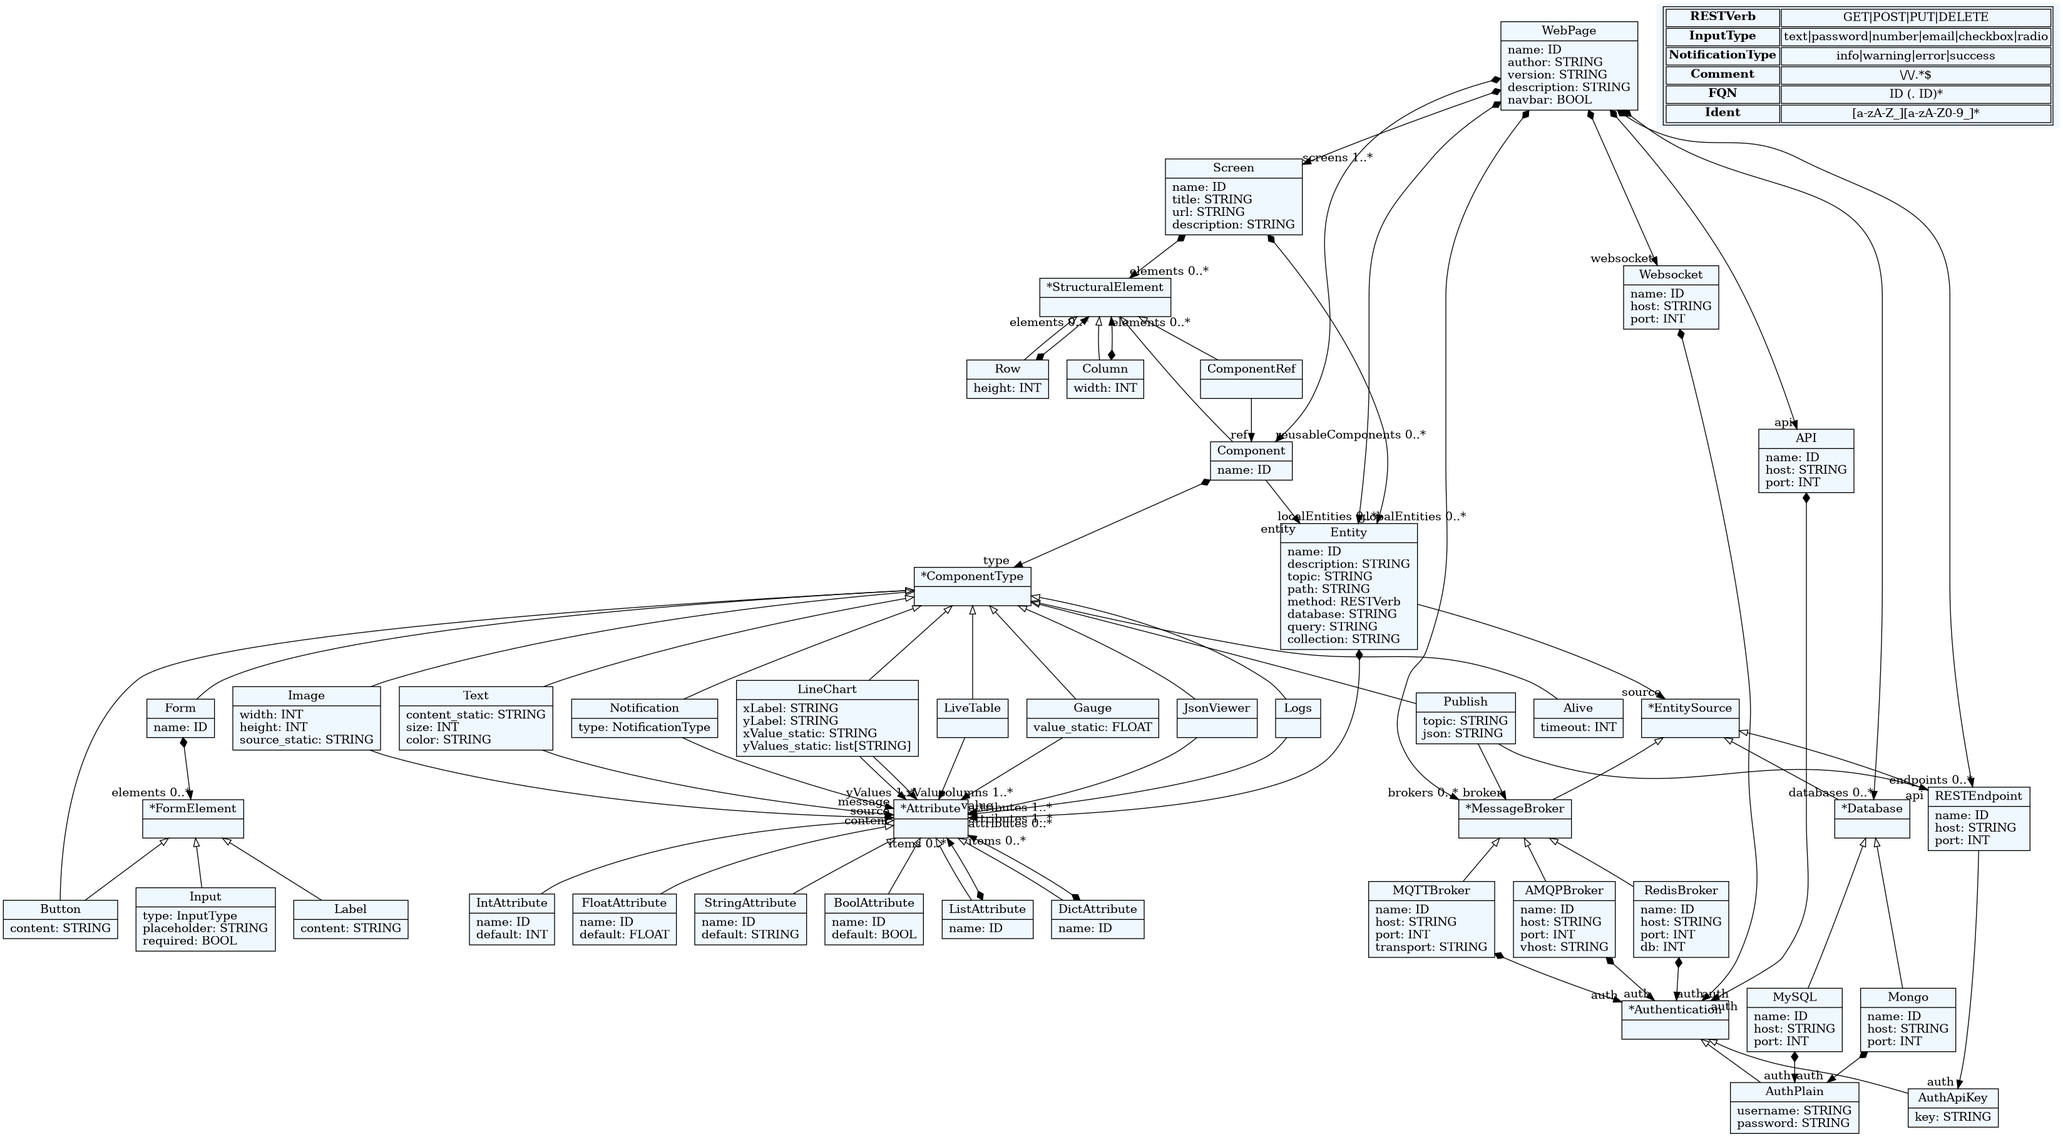
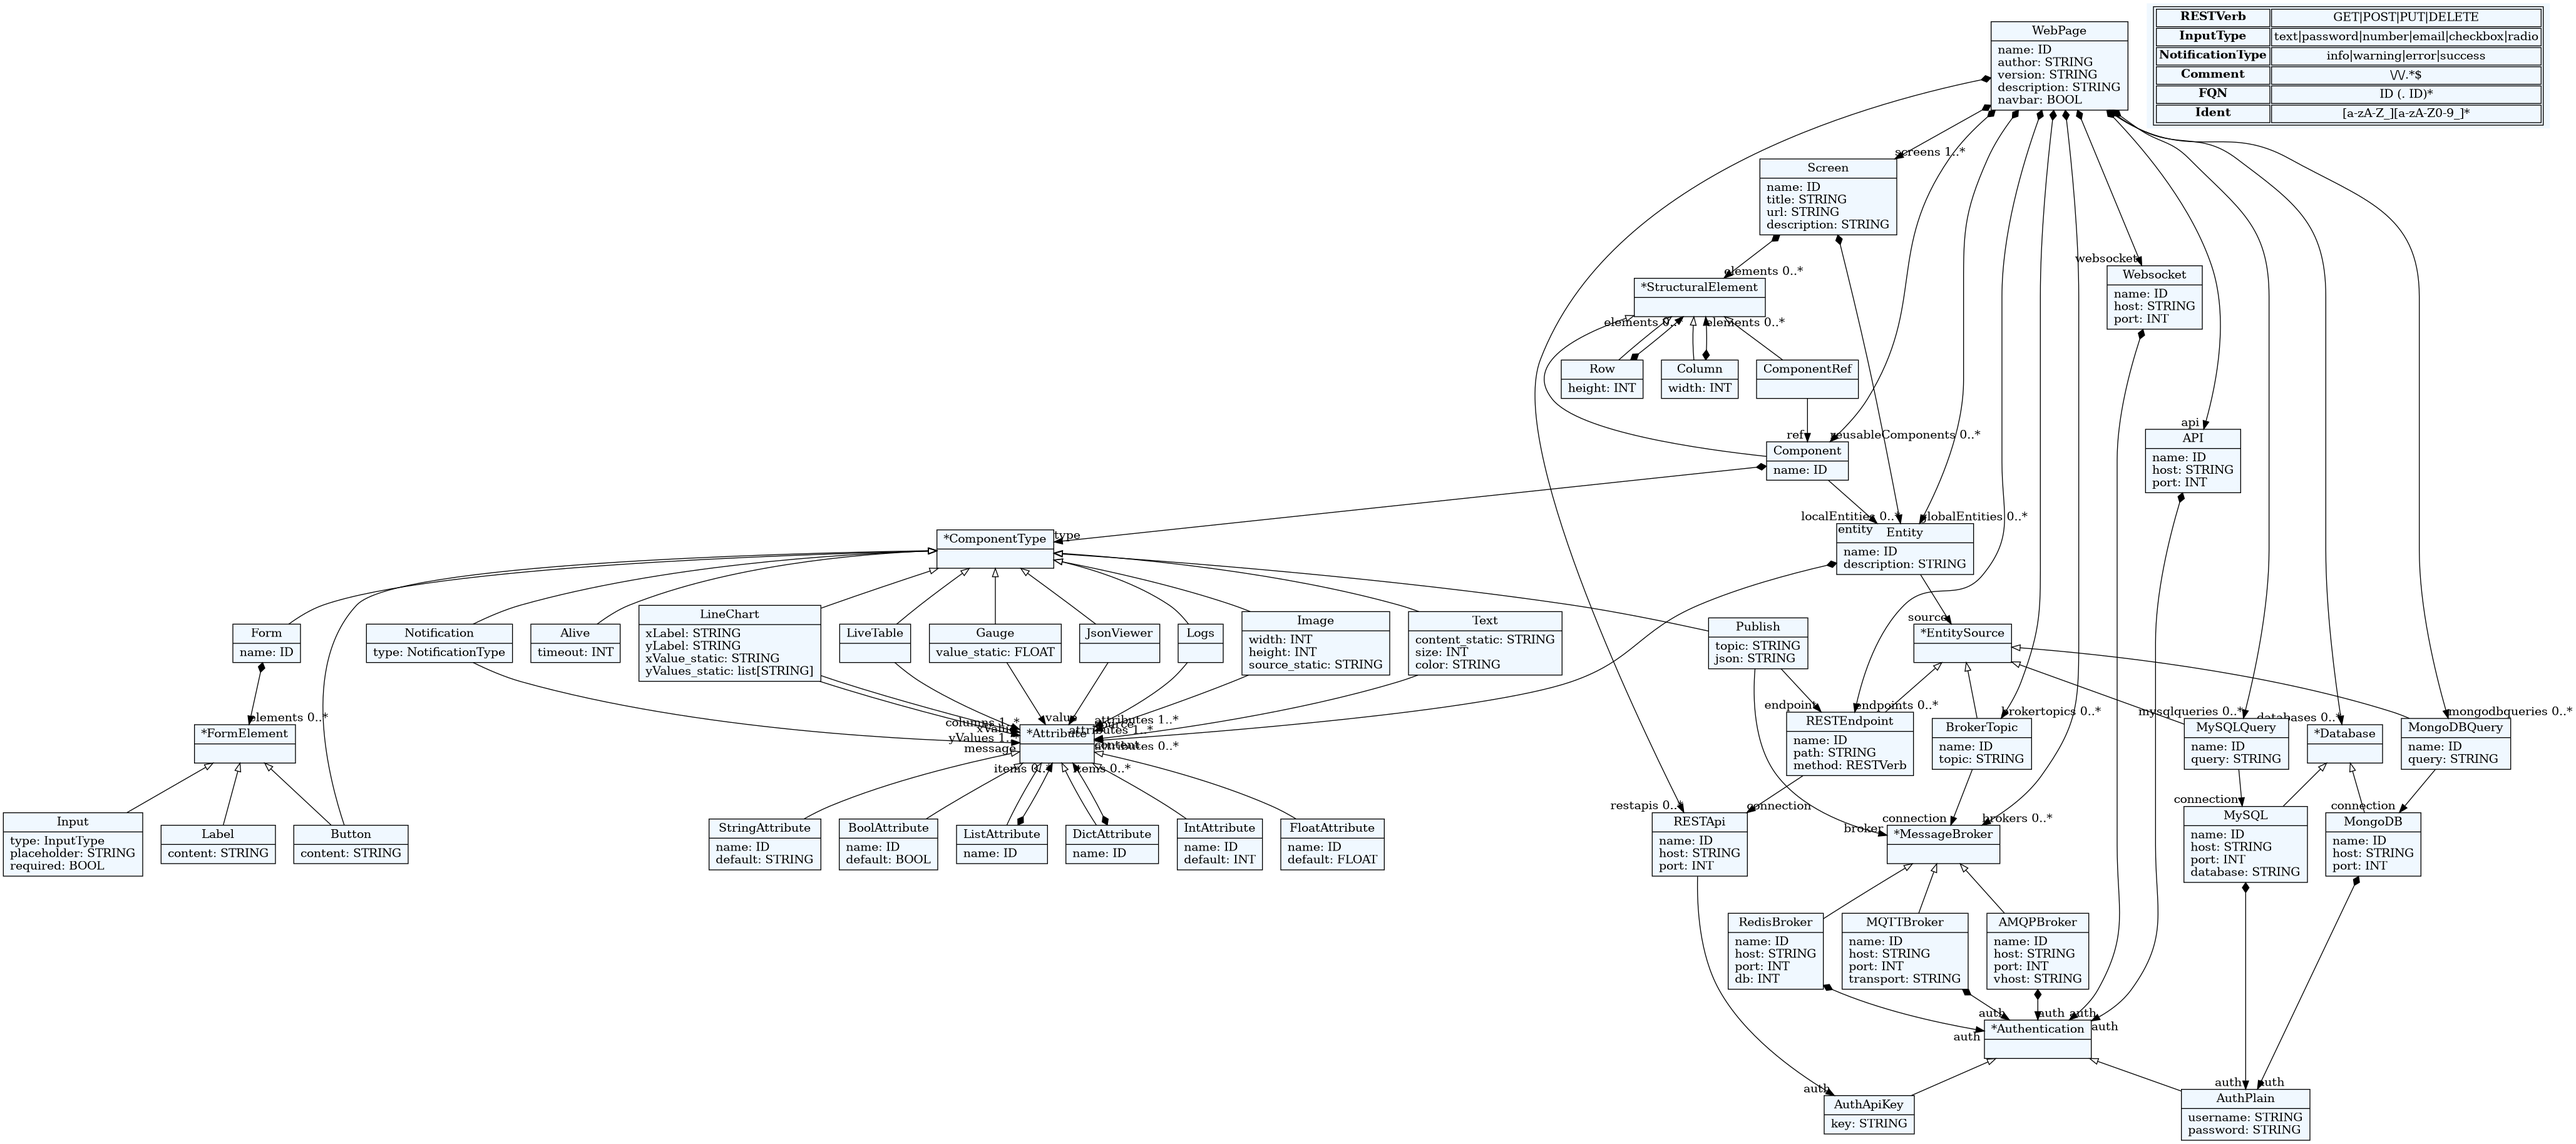
Changed entity source and refactored generation

diff --git a/web_dsl/generate.py b/web_dsl/generate.py
@@ -79,6 +79,7 @@ def generate(model_path, gen_path):
 
     # Generate the screen components
     for screen in model.screens:
+        print(f"Generating screen: {screen.name}")
         try:
             html_content = screen_template.render(screen=screen)
         except TemplateError as e:
@@ -140,7 +141,7 @@ def generate(model_path, gen_path):
     # for component in components:
     #     print(component.type.__dict__)
 
-    # Gather all topic from the model
+    # Gather all topics from the model
     entities = get_children_of_type("Entity", model)
     topic_configs = []
     for entity in entities:
@@ -149,13 +150,14 @@ def generate(model_path, gen_path):
         for attribute in entity.attributes:
             attributes.append(attribute.name)
 
-        topic_configs.append(
-            {
-                "topic": entity.topic,
-                "broker": entity.source.name,
-                "attributes": attributes,
-            }
-        )
+        if entity.source.__class__.__name__ == "BrokerTopic":
+            topic_configs.append(
+                {
+                    "topic": entity.source.topic,
+                    "broker": entity.source.connection.name,
+                    "attributes": attributes,
+                }
+            )
 
     # Collect all brokers
     all_brokers = set()
@@ -175,14 +177,14 @@ def generate(model_path, gen_path):
         f.write(config_content)
     print(f"Generated: {config_output_file}")
 
-    # Generate endpoint config file
-    all_endpoints = get_children_of_type("RESTEndpoint", model)
+    # Generate rest api config file
+    all_rest_apis = get_children_of_type("RESTApi", model)
     endpoint_config_dir = os.path.join(gen_path, "backend")
     endpoint_config_output_file = os.path.join(
         endpoint_config_dir, "endpoint_config.yaml"
     )
     endpoint_config_content = endpoint_config_template.render(
-        endpoints=all_endpoints,
+        all_rest_apis=all_rest_apis,
     )
     with open(endpoint_config_output_file, "w", encoding="utf-8") as f:
         f.write(endpoint_config_content)
@@ -190,7 +192,7 @@ def generate(model_path, gen_path):
 
     # Generate Database config
     mysql_databases = get_children_of_type("MySQL", model)
-    mongo_databases = get_children_of_type("Mongo", model)
+    mongo_databases = get_children_of_type("MongoDB", model)
 
     db_config_dir = os.path.join(gen_path, "backend")
     db_config_output_file = os.path.join(db_config_dir, "db_config.yaml")

diff --git a/web_dsl/lib/component.py b/web_dsl/lib/component.py
@@ -6,14 +6,14 @@ class Component:
         self.entity = entity  # This should point to an Entity
         self.type = type  # This could be Gauge, etc.
         try:
-            entityRef = entity.source.__class__.__name__
+            entityRef = entity.source.connection.__class__.__name__
         except AttributeError:
             entityRef = None  # or "Unknown", or whatever fallback you prefer
         source_map = {
             "MQTTBroker": "broker",
             "AMQPBroker": "broker",
             "RedisBroker": "broker",
-            "RESTEndpoint": "rest",
+            "RESTApi": "rest",
             "Database": "db",
             "MySQL": "db",
             "MongoDB": "db",
@@ -94,11 +94,17 @@ class LineChart(ComponentType):
 
 class Publish(ComponentType):
     def __init__(
-        self, parent=None, name="Publish", broker=None, api=None, topic=None, json=None
+        self,
+        parent=None,
+        name="Publish",
+        broker=None,
+        endpoint=None,
+        topic=None,
+        json=None,
     ):
         super().__init__(parent, name)
         self.broker = broker
-        self.api = api
+        self.endpoint = endpoint
         self.topic = topic
         self.json = json
 
